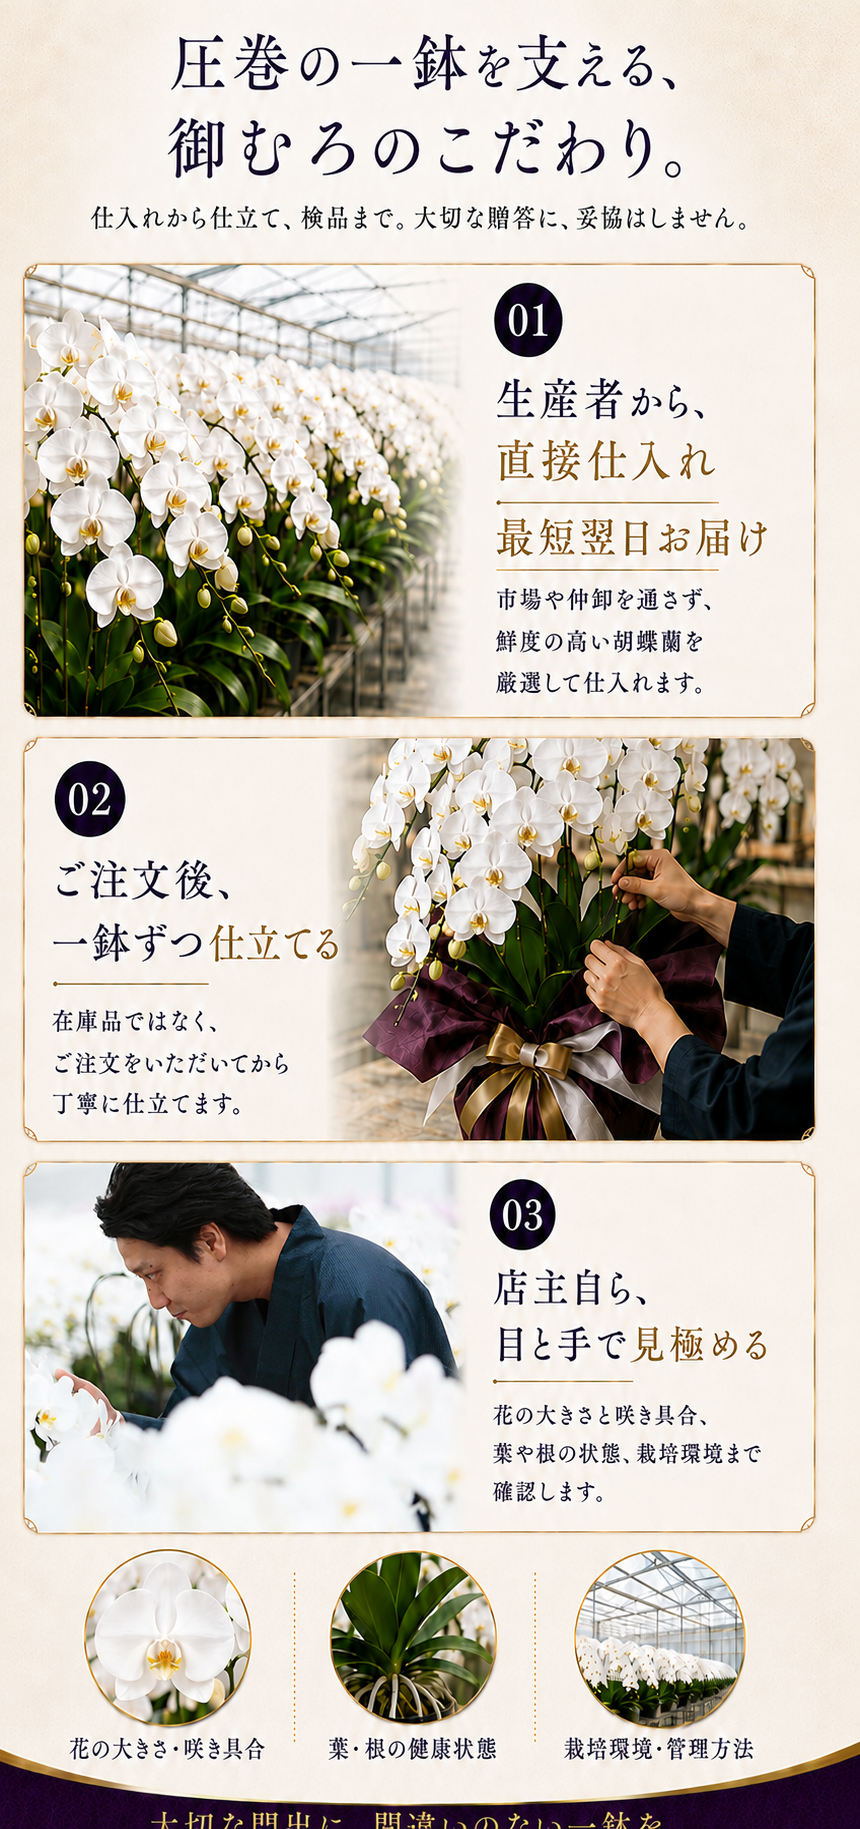
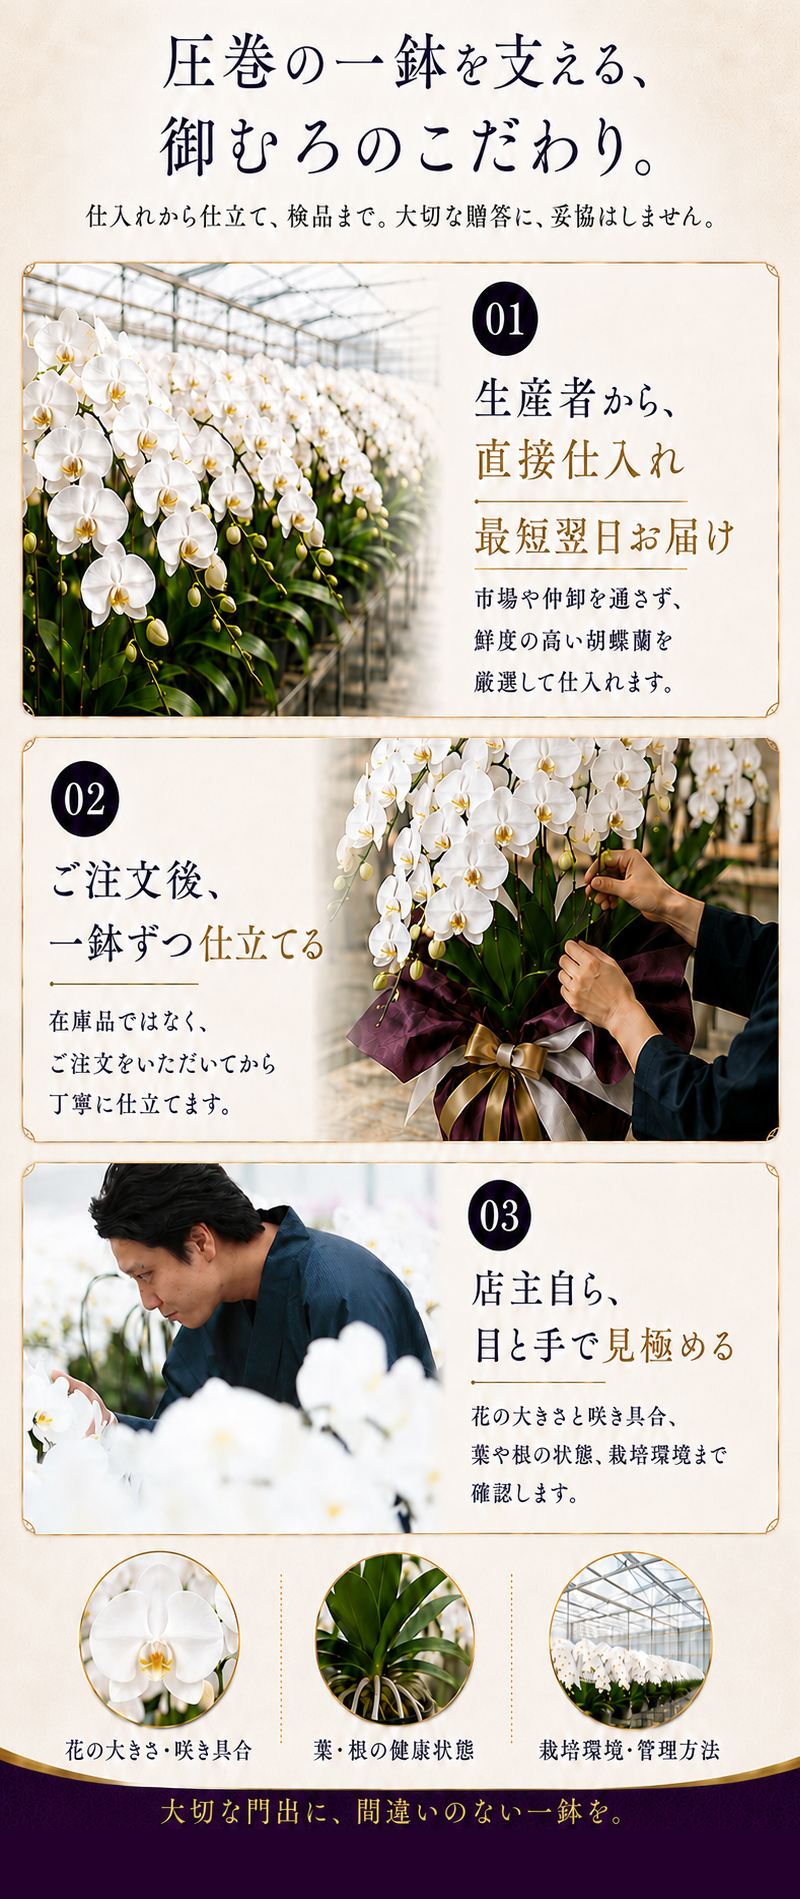
Update section 6 image

diff --git a/index.html b/index.html
@@ -31,7 +31,7 @@
         <img src="img/5.png" alt="大輪胡蝶蘭のご案内 5" width="889" height="1770" loading="lazy" />
       </section>
       <section class="visual" id="section-6">
-        <img src="img/6.png" alt="大輪胡蝶蘭のご案内 6" width="860" height="1829" loading="lazy" />
+        <img src="img/6.png" alt="大輪胡蝶蘭のご案内 6" width="800" height="1899" loading="lazy" />
       </section>
       <section class="visual" id="section-7">
         <img src="img/7.png" alt="大輪胡蝶蘭のご案内 7" width="788" height="1995" loading="lazy" />
